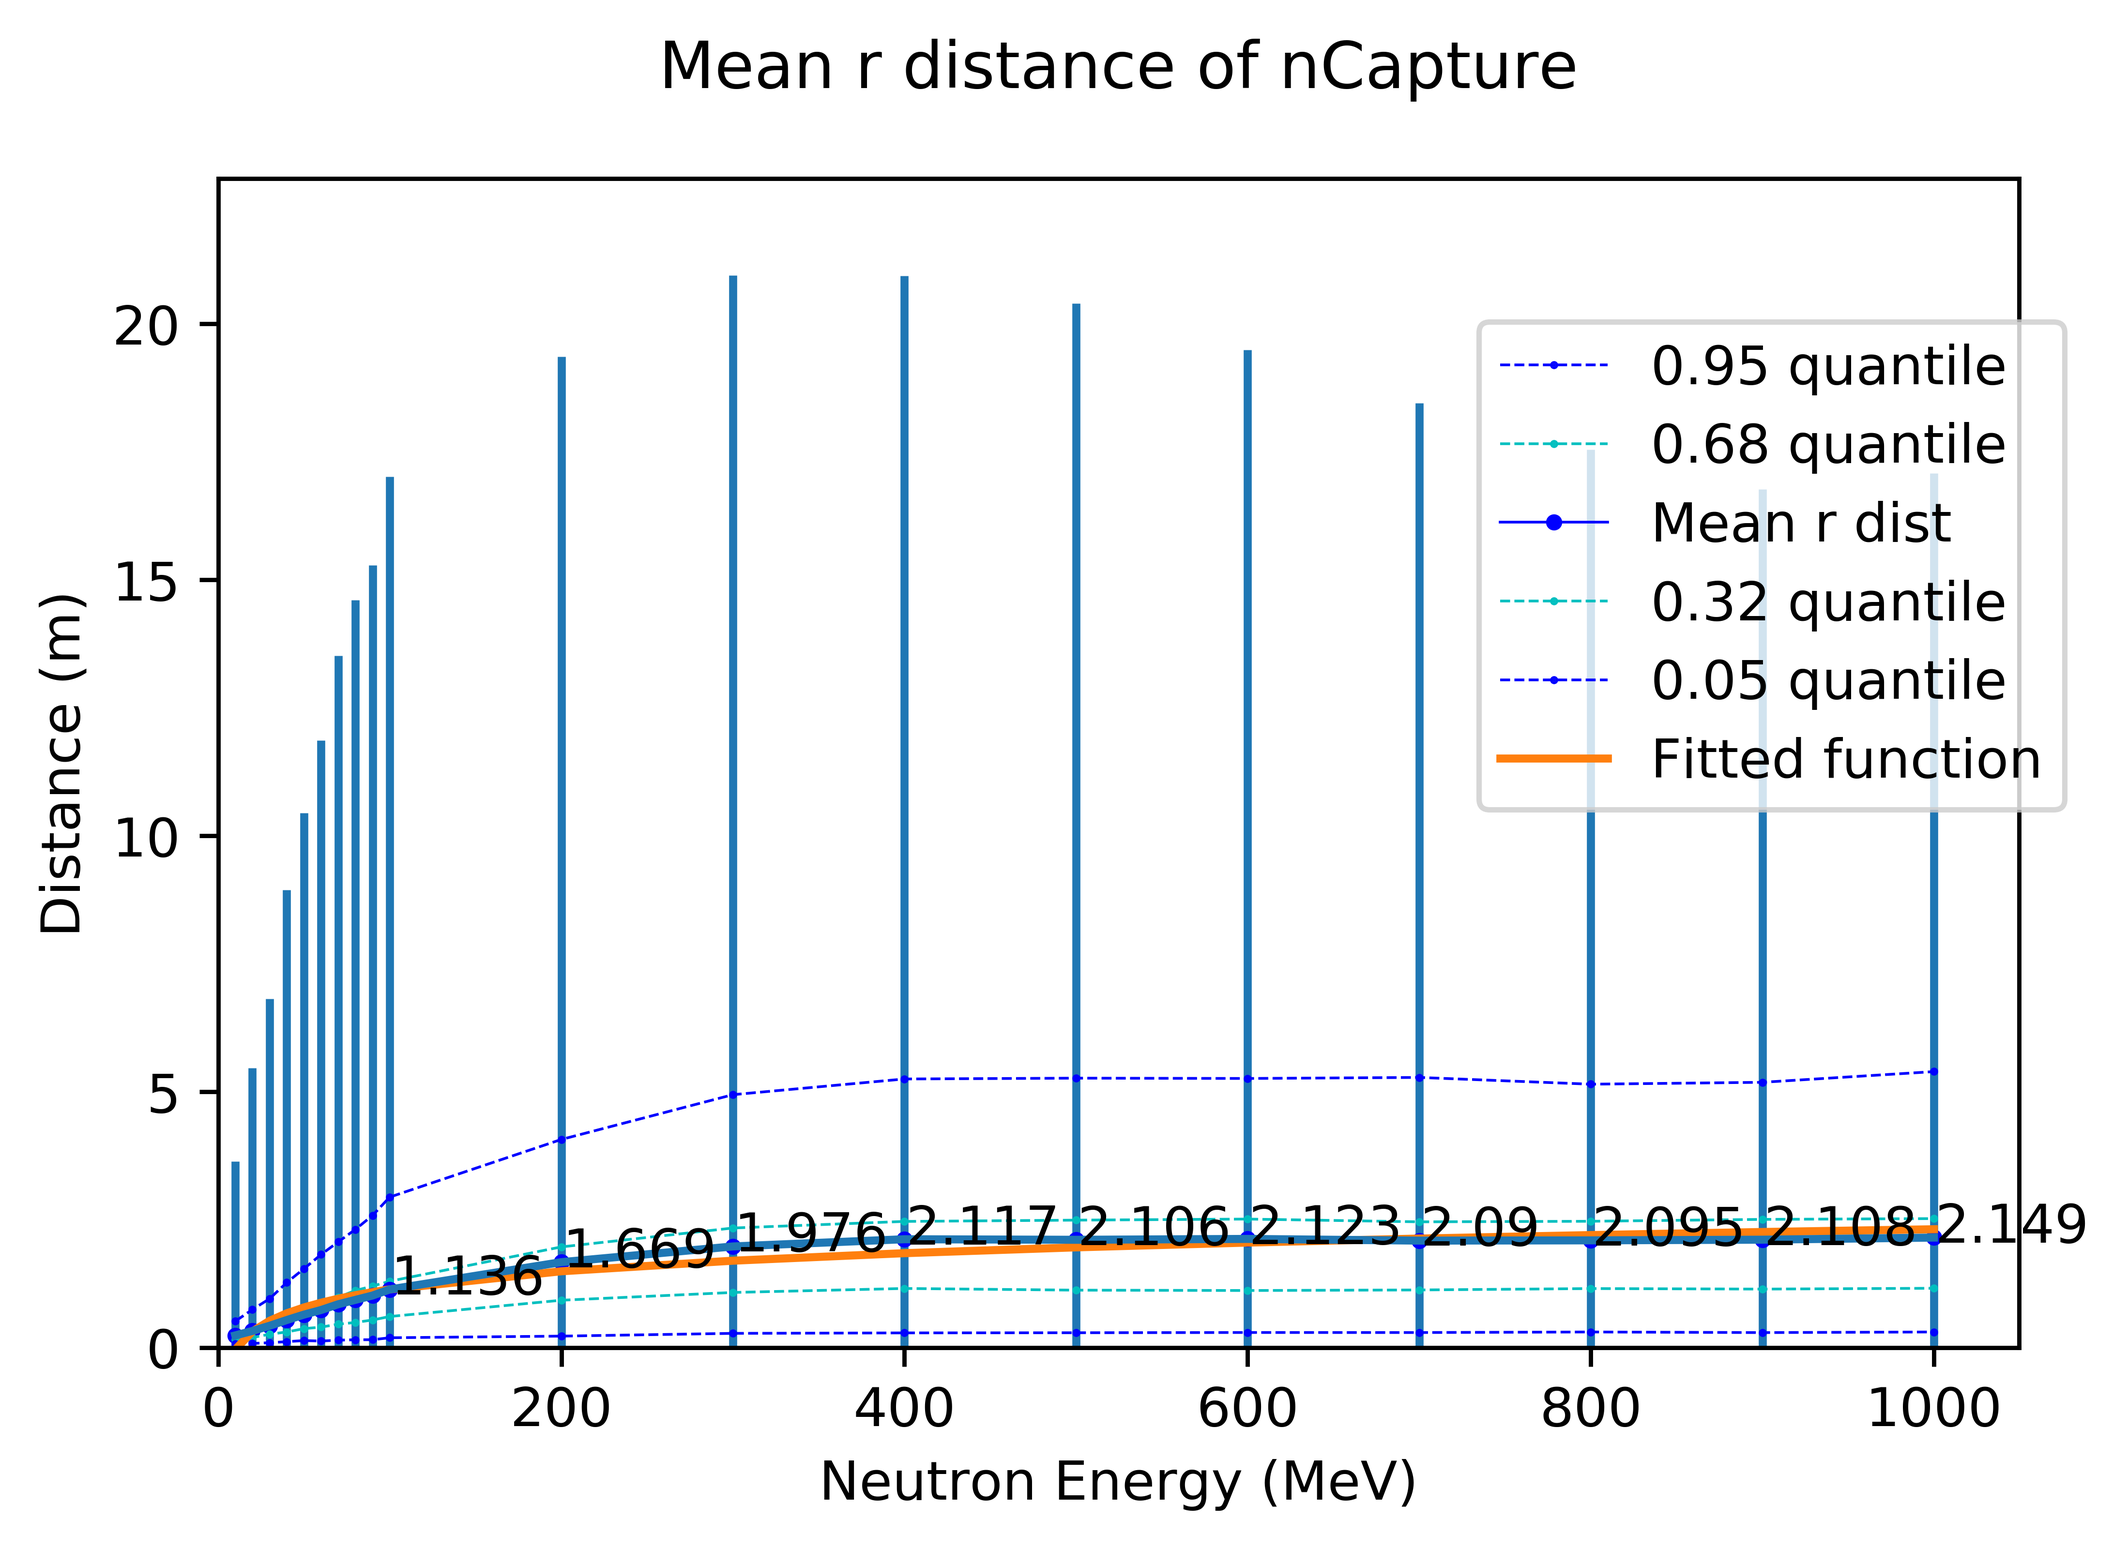
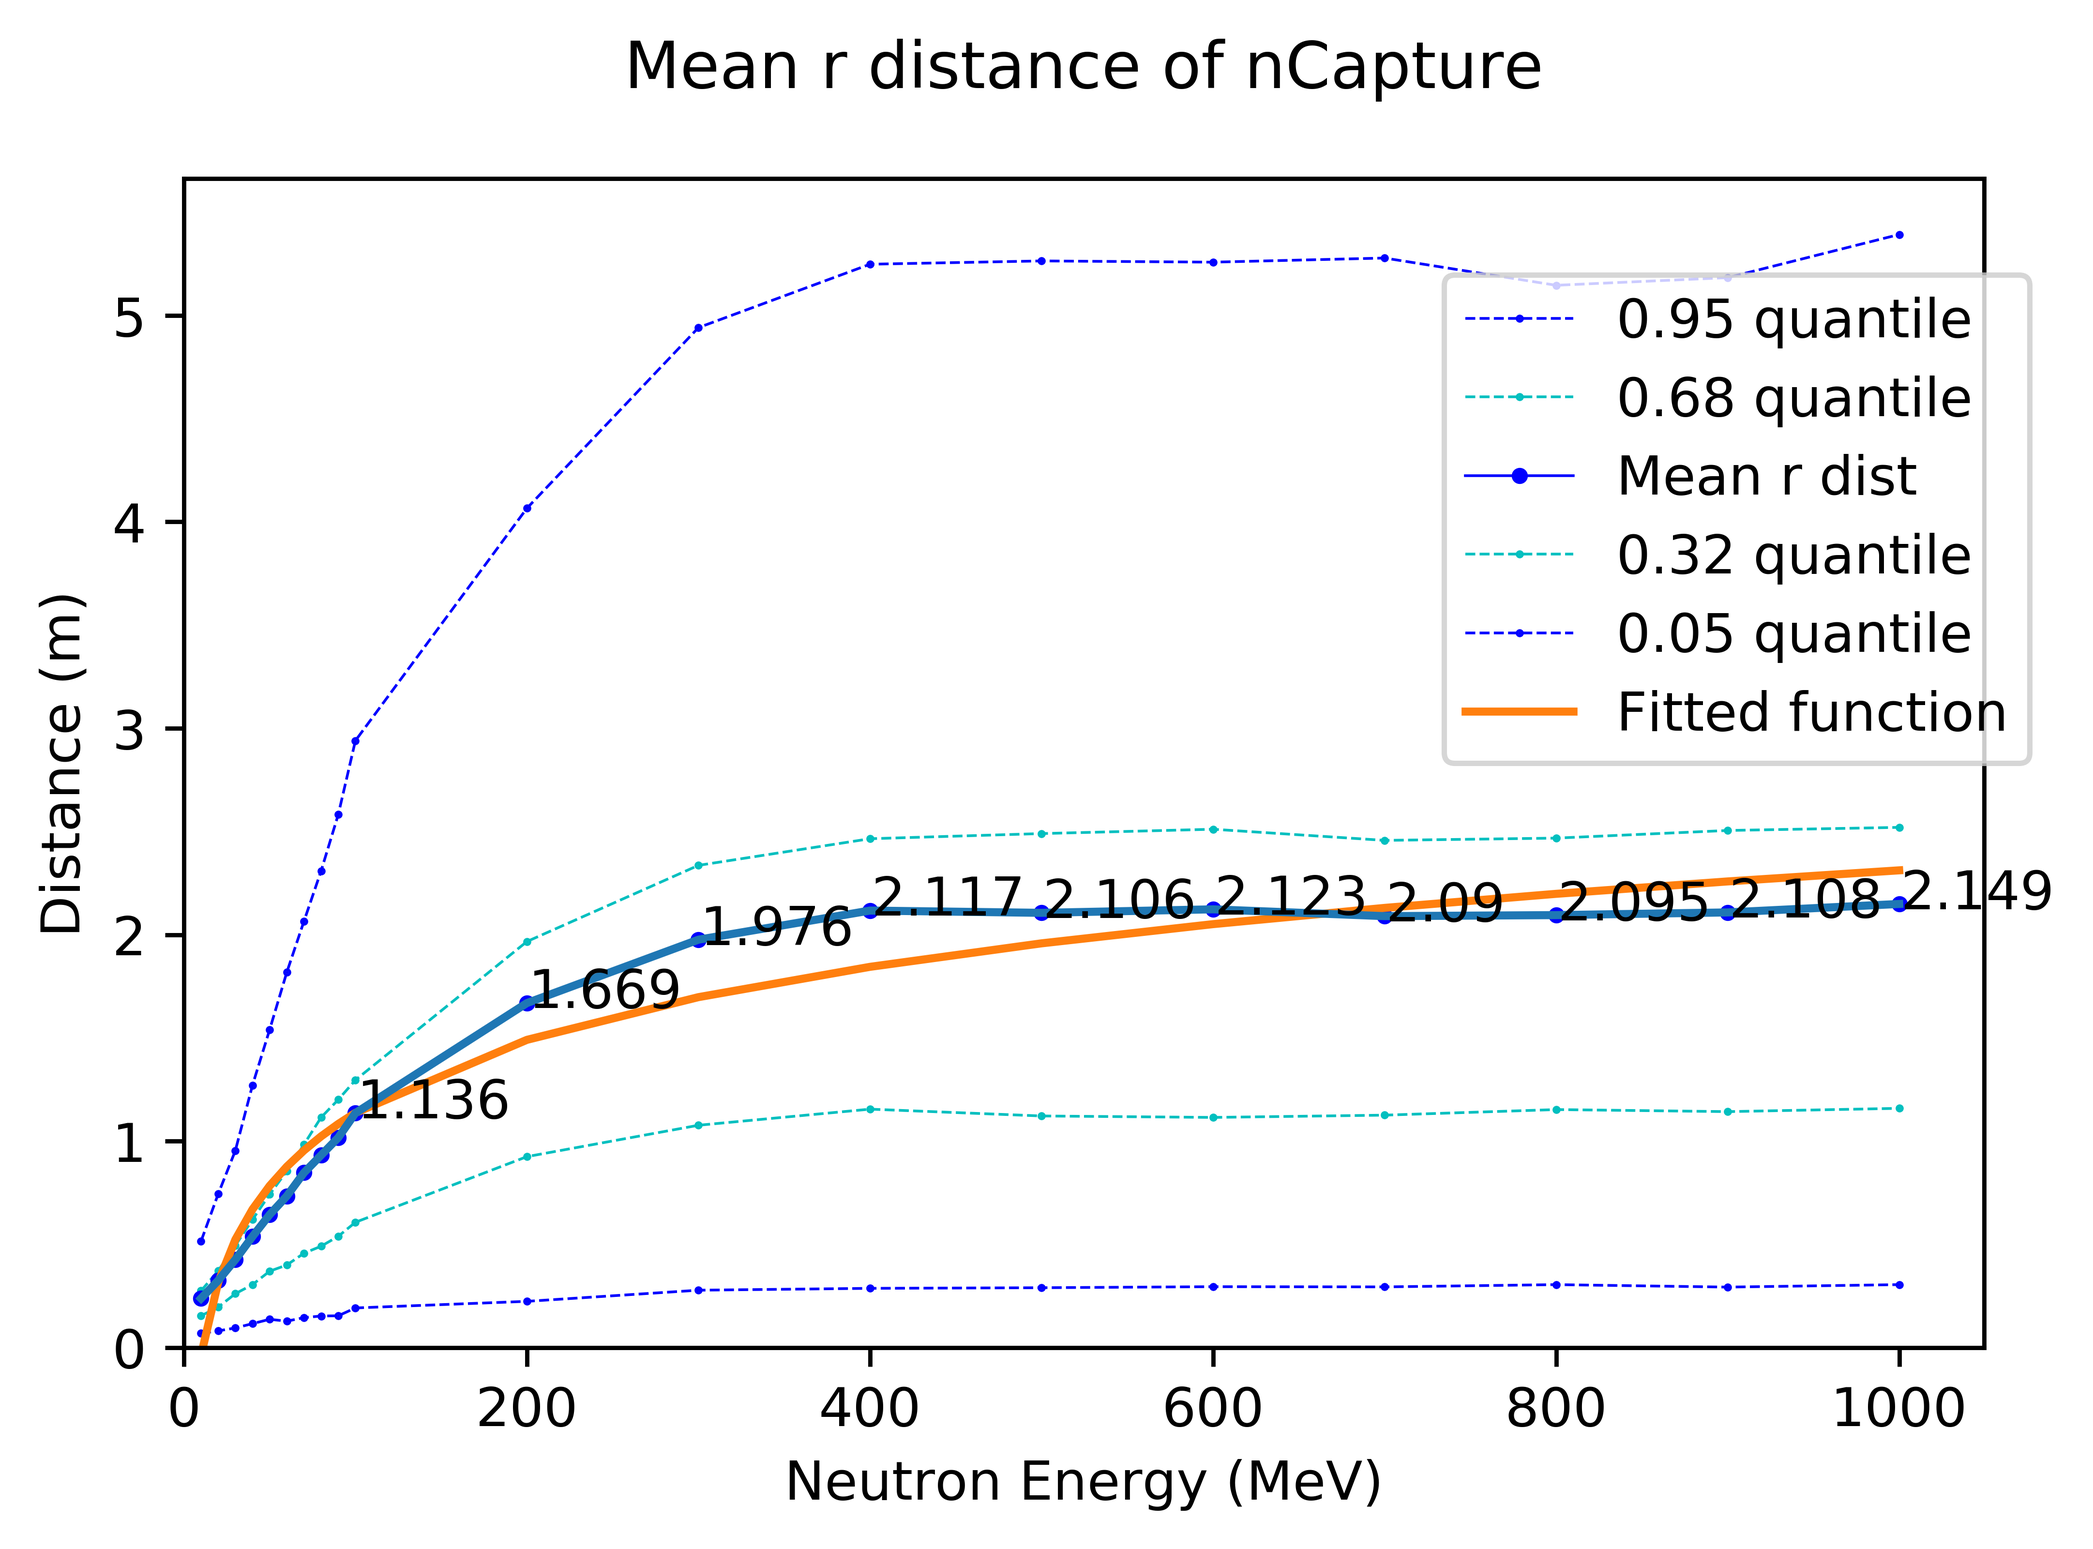
Some major recoding with loops and new subplots

diff --git a/Hadr04-FTF-timeposition-build/nCaptureMeanrDist.py b/Hadr04-FTF-timeposition-build/nCaptureMeanrDist.py
@@ -1,7 +1,7 @@
 #!/usr/bin/env python3
 # -*- coding: utf-8 -*-
 """
-Created on Fri May 29 11:08:25 2020
+Created on Fri May 29 09:13:25 2020
 
 @author: carlopalazzi
 """
@@ -12,92 +12,65 @@ from matplotlib import pyplot as plt
 #from matplotlib import rc
 #rc('text', usetex=False)
 from scipy import optimize
-from scipy import stats
 
 df10 = pd.read_csv('timepositions10.csv', names=['t', 'x', 'y', 'z'])
-df10['r']=np.sqrt(df10['x']**2+df10['y']**2+df10['z']**2)
 df20 = pd.read_csv('timepositions20.csv', names=['t', 'x', 'y', 'z'])
-df20['r']=np.sqrt(df20['x']**2+df20['y']**2+df20['z']**2)
 df30 = pd.read_csv('timepositions30.csv', names=['t', 'x', 'y', 'z'])
-df30['r']=np.sqrt(df30['x']**2+df30['y']**2+df30['z']**2)
 df40 = pd.read_csv('timepositions40.csv', names=['t', 'x', 'y', 'z'])
-df40['r']=np.sqrt(df40['x']**2+df40['y']**2+df40['z']**2)
 df50 = pd.read_csv('timepositions50.csv', names=['t', 'x', 'y', 'z'])
-df50['r']=np.sqrt(df50['x']**2+df50['y']**2+df50['z']**2)
 df60 = pd.read_csv('timepositions60.csv', names=['t', 'x', 'y', 'z'])
-df60['r']=np.sqrt(df60['x']**2+df60['y']**2+df60['z']**2)
 df70 = pd.read_csv('timepositions70.csv', names=['t', 'x', 'y', 'z'])
-df70['r']=np.sqrt(df70['x']**2+df70['y']**2+df70['z']**2)
 df80 = pd.read_csv('timepositions80.csv', names=['t', 'x', 'y', 'z'])
-df80['r']=np.sqrt(df80['x']**2+df80['y']**2+df80['z']**2)
 df90 = pd.read_csv('timepositions90.csv', names=['t', 'x', 'y', 'z'])
-df90['r']=np.sqrt(df90['x']**2+df90['y']**2+df90['z']**2)
 df100 = pd.read_csv('timepositions100.csv', names=['t', 'x', 'y', 'z'])
-df100['r']=np.sqrt(df100['x']**2+df100['y']**2+df100['z']**2)
 df200 = pd.read_csv('timepositions200.csv', names=['t', 'x', 'y', 'z'])
-df200['r']=np.sqrt(df200['x']**2+df200['y']**2+df200['z']**2)
 df300 = pd.read_csv('timepositions300.csv', names=['t', 'x', 'y', 'z'])
-df300['r']=np.sqrt(df300['x']**2+df300['y']**2+df300['z']**2)
 df400 = pd.read_csv('timepositions400.csv', names=['t', 'x', 'y', 'z'])
-df400['r']=np.sqrt(df400['x']**2+df400['y']**2+df400['z']**2)
 df500 = pd.read_csv('timepositions500.csv', names=['t', 'x', 'y', 'z'])
-df500['r']=np.sqrt(df500['x']**2+df500['y']**2+df500['z']**2)
 df600 = pd.read_csv('timepositions600.csv', names=['t', 'x', 'y', 'z'])
-df600['r']=np.sqrt(df600['x']**2+df600['y']**2+df600['z']**2)
 df700 = pd.read_csv('timepositions700.csv', names=['t', 'x', 'y', 'z'])
-df700['r']=np.sqrt(df700['x']**2+df700['y']**2+df700['z']**2)
 df800 = pd.read_csv('timepositions800.csv', names=['t', 'x', 'y', 'z'])
-df800['r']=np.sqrt(df800['x']**2+df800['y']**2+df800['z']**2)
 df900 = pd.read_csv('timepositions900.csv', names=['t', 'x', 'y', 'z'])
-df900['r']=np.sqrt(df900['x']**2+df900['y']**2+df900['z']**2)
 df1000 = pd.read_csv('timepositions1000.csv', names=['t', 'x', 'y', 'z'])
-df1000['r']=np.sqrt(df1000['x']**2+df1000['y']**2+df1000['z']**2)
 
-dflist = [df10,df20,df30,df40,df50,df60,df70,df80,df90\
-          ,df100, df200, df300, df400, df500, df600, df700, df800, df900, df1000]
+dflist = [df10, df20, df30, df40, df50, df60, df70, df80, df90\
+          , df100, df200, df300, df400, df500, df600, df700, df800, df900, df1000]
+
+# Convert units to metres and microseconds
+for df in dflist: 
+    df[df.columns] = df[df.columns]/1000
+
+# Create rdist columns
+for i in dflist:
+    i['rdist'] = np.sqrt(i['x']**2+i['y']**2+i['z']**2)
 
 meanrdist = []
 for i in dflist:
-    meanrdist.append(round((((np.sqrt(i['r'])**2)).mean())/1000, 3))
-      
-yerror = []
-for i in dflist:
-    yerror.append((np.sqrt(i['r'])**2).sem())
-print(yerror)
-
-ystd = []
-for i in dflist:
-    ystd.append((np.sqrt(i['r'])**2).std()/np.sqrt(len(i)))
-
+    meanrdist.append(round(i['rdist'].mean(), 3))
 
 quantile05 = []
 for i in dflist:
-    quantile05.append(round(i['r'].quantile(0.05)/1000, 3))  
+    quantile05.append(round(i['rdist'].quantile(0.05), 3))  
     
 quantile32 = []
 for i in dflist:
-    quantile32.append(round(i['r'].quantile(0.32)/1000, 3))  
+    quantile32.append(round(i['rdist'].quantile(0.32), 3))  
     
 quantile95 = []
 for i in dflist:
-    quantile95.append(round(i['r'].quantile(0.95)/1000, 3)) 
+    quantile95.append(round(i['rdist'].quantile(0.95), 3)) 
 
 quantile68 = []
 for i in dflist:
-    quantile68.append(round(i['r'].quantile(0.68)/1000, 3))
+    quantile68.append(round(i['rdist'].quantile(0.68), 3))
     
-energies = [10,20,30,40,50,60,70,80,90,100, 200, 300, 400, 500, 600, 700, 800, 900, 1000]
+energies = [10,20,30,40,50,60,70,80,90\
+            ,100, 200, 300, 400, 500, 600, 700, 800, 900, 1000]
 
-countspmin = pd.DataFrame(np.array([[1,0],[2,2],[3,5],[4,7]]))
-print(countspmin.sem())
-
-#print(np.sqrt(1830**2-1600**2))
-
-## Convert lists to arrays
-#meanrdist = np.array(meanrdist)
-#quantile05 = np.array(quantile05)
-#quantile95 = np.array(quantile95)
-#energies = np.array(energies)
+yerror = []
+for i in dflist:
+    yerror.append(i['rdist'].sem())
+print(yerror)
 
 def test_func(z, a, b):
     return a+b*np.log(z)
@@ -111,14 +84,14 @@ params, params_covariance = optimize.curve_fit(test_func,  energies,  meanrdist)
 print('a =', params[0])
 print('b =', params[1])
 
-
+# Mean rdist by energy plot
 plt.plot(energies, quantile95, 'bo--', linewidth=0.5, markersize=0.5,\
          label='0.95 quantile')
 plt.plot(energies, quantile68, 'co--', linewidth=0.5, markersize=0.5,\
          label='0.68 quantile')
 
 plt.plot(energies, meanrdist, 'bo-', linewidth=0.5, markersize=2, label='Mean r dist')
-plt.errorbar(energies, meanrdist, yerr=ystd)
+plt.errorbar(energies, meanrdist, yerr=yerror)
 
 plt.plot(energies, quantile32, 'co--', linewidth=0.5, markersize=0.5,\
          label='0.32 quantile')
@@ -132,14 +105,34 @@ plt.plot(energies, test_func(energies, params[0], params[1]),
 for i, txt in enumerate(meanrdist):
     if i>=9:
         plt.annotate(txt, (energies[i], meanrdist[i]), xytext=(3,-10), textcoords='offset pixels')
-    
+
 plt.title('Mean r distance of nCapture', y=1.05)
 plt.xlabel('Neutron Energy (MeV)')
 plt.ylabel('Distance (m)')
 plt.xlim(left=0)
 plt.ylim(bottom=0)
-plt.legend(loc=(0.7,0.46))
+plt.legend(loc=(0.7,0.5))
 plt.savefig('nCapturemeanrdist.png', dpi=800, bbox_inches='tight')
 plt.show()
-    
-    
+
+# rdist vs t scatterplots
+fig, ax = plt.subplots(4, 5, sharex='col', sharey='row')
+# axes are in a two-dimensional array, indexed by [row, col]
+numplot = 0
+for i in range(4):
+    for j in range(5):
+        if numplot<len(dflist):
+            if numplot<10:
+                ax[i, j].text(5, 1600, str((numplot+1)*10)+' MeV'+'\n'+str(len(dflist[numplot]['rdist']))+' entries', fontsize=4, ha='center')
+            elif numplot>=10:
+                ax[i, j].text(5, 1600, str((numplot-8)*100)+' MeV'+'\n'+str(len(dflist[numplot]['rdist']))+' entries', fontsize=4, ha='center')
+            ax[i, j].scatter(dflist[numplot]['rdist'], dflist[numplot]['t'], s=0.1, edgecolors='none')
+            ax[i, j].set_xlim(left=0, right=14)
+            ax[i, j].set_ylim(bottom=0, top=2100)
+            numplot+=1
+
+fig.suptitle('r Distance and Time of nCapture')
+fig.text(0.5, 0.01, 'r Distance (m)', ha='center', va='center')
+fig.text(0.01, 0.5, 'Time (microsec)', ha='center', va='center', rotation='vertical')
+
+plt.savefig('nCapturerdist.png', dpi=800, bbox_inches='tight')

diff --git a/Hadr04-FTF-timeposition-build/nCaptureMeanzDist.py b/Hadr04-FTF-timeposition-build/nCaptureMeanzDist.py
@@ -14,75 +14,63 @@ from matplotlib import pyplot as plt
 from scipy import optimize
 
 df10 = pd.read_csv('timepositions10.csv', names=['t', 'x', 'y', 'z'])
-df10['v']=np.sqrt(df10['x']**2+df10['z']**2+df10['z']**2)/df10['t']
 df20 = pd.read_csv('timepositions20.csv', names=['t', 'x', 'y', 'z'])
-df20['v']=np.sqrt(df20['x']**2+df20['z']**2+df20['z']**2)/df20['t']
 df30 = pd.read_csv('timepositions30.csv', names=['t', 'x', 'y', 'z'])
-df30['v']=np.sqrt(df30['x']**2+df30['z']**2+df30['z']**2)/df30['t']
 df40 = pd.read_csv('timepositions40.csv', names=['t', 'x', 'y', 'z'])
-df40['v']=np.sqrt(df40['x']**2+df40['z']**2+df40['z']**2)/df40['t']
 df50 = pd.read_csv('timepositions50.csv', names=['t', 'x', 'y', 'z'])
-df50['v']=np.sqrt(df50['x']**2+df50['z']**2+df50['z']**2)/df50['t']
 df60 = pd.read_csv('timepositions60.csv', names=['t', 'x', 'y', 'z'])
-df60['v']=np.sqrt(df60['x']**2+df60['z']**2+df60['z']**2)/df60['t']
 df70 = pd.read_csv('timepositions70.csv', names=['t', 'x', 'y', 'z'])
-df70['v']=np.sqrt(df70['x']**2+df70['z']**2+df70['z']**2)/df70['t']
 df80 = pd.read_csv('timepositions80.csv', names=['t', 'x', 'y', 'z'])
-df80['v']=np.sqrt(df80['x']**2+df80['z']**2+df80['z']**2)/df80['t']
 df90 = pd.read_csv('timepositions90.csv', names=['t', 'x', 'y', 'z'])
-df90['v']=np.sqrt(df90['x']**2+df90['z']**2+df90['z']**2)/df90['t']
 df100 = pd.read_csv('timepositions100.csv', names=['t', 'x', 'y', 'z'])
-df100['v']=np.sqrt(df100['x']**2+df100['z']**2+df100['z']**2)/df100['t']
 df200 = pd.read_csv('timepositions200.csv', names=['t', 'x', 'y', 'z'])
-df200['v']=np.sqrt(df200['x']**2+df200['z']**2+df200['z']**2)/df200['t']
 df300 = pd.read_csv('timepositions300.csv', names=['t', 'x', 'y', 'z'])
-df300['v']=np.sqrt(df300['x']**2+df300['z']**2+df300['z']**2)/df300['t']
 df400 = pd.read_csv('timepositions400.csv', names=['t', 'x', 'y', 'z'])
-df400['v']=np.sqrt(df400['x']**2+df400['z']**2+df400['z']**2)/df400['t']
 df500 = pd.read_csv('timepositions500.csv', names=['t', 'x', 'y', 'z'])
-df500['v']=np.sqrt(df500['x']**2+df500['z']**2+df500['z']**2)/df500['t']
 df600 = pd.read_csv('timepositions600.csv', names=['t', 'x', 'y', 'z'])
-df600['v']=np.sqrt(df600['x']**2+df600['z']**2+df600['z']**2)/df600['t']
 df700 = pd.read_csv('timepositions700.csv', names=['t', 'x', 'y', 'z'])
-df700['v']=np.sqrt(df700['x']**2+df700['z']**2+df700['z']**2)/df700['t']
 df800 = pd.read_csv('timepositions800.csv', names=['t', 'x', 'y', 'z'])
-df800['v']=np.sqrt(df800['x']**2+df800['z']**2+df800['z']**2)/df800['t']
 df900 = pd.read_csv('timepositions900.csv', names=['t', 'x', 'y', 'z'])
-df900['v']=np.sqrt(df900['x']**2+df900['z']**2+df900['z']**2)/df900['t']
 df1000 = pd.read_csv('timepositions1000.csv', names=['t', 'x', 'y', 'z'])
-df1000['v']=np.sqrt(df1000['x']**2+df1000['z']**2+df1000['z']**2)/df1000['t']
 
 dflist = [df10, df20, df30, df40, df50, df60, df70, df80, df90\
           , df100, df200, df300, df400, df500, df600, df700, df800, df900, df1000]
 
+# Convert units to metres and microseconds
+for df in dflist: 
+    df[df.columns] = df[df.columns]/1000
+
+# Create zdist columns
+for i in dflist:
+    i['zdist'] = np.sqrt(i['z']**2)
+
 meanzdist = []
 for i in dflist:
-    meanzdist.append(round((((np.sqrt(i['z']**2))).mean())/1000, 3))
+    meanzdist.append(round(i['zdist'].mean(), 3))
 
 quantile05 = []
 for i in dflist:
-    quantile05.append(round(((np.sqrt(i['z']**2))).quantile(0.05)/1000, 3))  
+    quantile05.append(round(i['zdist'].quantile(0.05), 3))  
     
 quantile32 = []
 for i in dflist:
-    quantile32.append(round(((np.sqrt(i['z']**2))).quantile(0.32)/1000, 3))  
+    quantile32.append(round(i['zdist'].quantile(0.32), 3))  
     
 quantile95 = []
 for i in dflist:
-    quantile95.append(round(((np.sqrt(i['z']**2))).quantile(0.95)/1000, 3)) 
+    quantile95.append(round(i['zdist'].quantile(0.95), 3)) 
 
 quantile68 = []
 for i in dflist:
-    quantile68.append(round(((np.sqrt(i['z']**2))).quantile(0.68)/1000, 3))
+    quantile68.append(round(i['zdist'].quantile(0.68), 3))
     
 energies = [10,20,30,40,50,60,70,80,90\
             ,100, 200, 300, 400, 500, 600, 700, 800, 900, 1000]
 
-## Convert lists to arrays
-#meanzdist = np.array(meanzdist)
-#quantile05 = np.array(quantile05)
-#quantile95 = np.array(quantile95)
-#energies = np.array(energies)
+yerror = []
+for i in dflist:
+    yerror.append(i['zdist'].sem())
+print(yerror)
 
 def test_func(z, a, b):
     return a+b*np.log(z)
@@ -96,12 +84,15 @@ params, params_covariance = optimize.curve_fit(test_func,  energies,  meanzdist)
 print('a =', params[0])
 print('b =', params[1])
 
-
+# Mean zdist by energy plot
 plt.plot(energies, quantile95, 'bo--', linewidth=0.5, markersize=0.5,\
          label='0.95 quantile')
 plt.plot(energies, quantile68, 'co--', linewidth=0.5, markersize=0.5,\
          label='0.68 quantile')
+
 plt.plot(energies, meanzdist, 'bo-', linewidth=0.5, markersize=2, label='Mean z dist')
+plt.errorbar(energies, meanzdist, yerr=yerror)
+
 plt.plot(energies, quantile32, 'co--', linewidth=0.5, markersize=0.5,\
          label='0.32 quantile')
 plt.plot(energies, quantile05, 'bo--', linewidth=0.5, markersize=0.5,\
@@ -112,8 +103,9 @@ plt.plot(energies, test_func(energies, params[0], params[1]),
 
 # Label plot points with their values
 for i, txt in enumerate(meanzdist):
-    plt.annotate(txt, (energies[i], meanzdist[i]), xytext=(3,-10), textcoords='offset pixels')
-    
+    if i>=9:
+        plt.annotate(txt, (energies[i], meanzdist[i]), xytext=(3,-10), textcoords='offset pixels')
+
 plt.title('Mean z distance of nCapture', y=1.05)
 plt.xlabel('Neutron Energy (MeV)')
 plt.ylabel('Distance (m)')
@@ -122,5 +114,25 @@ plt.ylim(bottom=0)
 plt.legend(loc=(0.7,0.5))
 plt.savefig('nCapturemeanzdist.png', dpi=800, bbox_inches='tight')
 plt.show()
-    
-    
+
+# zdist vs t scatterplots
+fig, ax = plt.subplots(4, 5, sharex='col', sharey='row')
+# axes are in a two-dimensional array, indexed by [row, col]
+numplot = 0
+for i in range(4):
+    for j in range(5):
+        if numplot<len(dflist):
+            if numplot<10:
+                ax[i, j].text(5, 1600, str((numplot+1)*10)+' MeV'+'\n'+str(len(dflist[numplot]['zdist']))+' entries', fontsize=4, ha='center')
+            elif numplot>=10:
+                ax[i, j].text(5, 1600, str((numplot-8)*100)+' MeV'+'\n'+str(len(dflist[numplot]['zdist']))+' entries', fontsize=4, ha='center')
+            ax[i, j].scatter(dflist[numplot]['zdist'], dflist[numplot]['t'], s=0.1, edgecolors='none')
+            ax[i, j].set_xlim(left=0, right=14)
+            ax[i, j].set_ylim(bottom=0, top=2100)
+            numplot+=1
+
+fig.suptitle('z Distance and Time of nCapture')
+fig.text(0.5, 0.01, 'z Distance (m)', ha='center', va='center')
+fig.text(0.01, 0.5, 'Time (microsec)', ha='center', va='center', rotation='vertical')
+
+plt.savefig('nCapturezdist.png', dpi=800, bbox_inches='tight')

diff --git a/Hadr04-FTF-timeposition-build/nCaptureMeanv.py b/Hadr04-FTF-timeposition-build/nCaptureMeanv.py
@@ -114,7 +114,8 @@ plt.plot(energies, test_func(energies, params[0], params[1]),
 
 # Label plot points with their values
 for i, txt in enumerate(meanv):
-    plt.annotate(txt, (energies[i], meanv[i]), xytext=(3,-10), textcoords='offset pixels')
+    if i>=9:
+        plt.annotate(txt, (energies[i], meanv[i]), xytext=(3,-10), textcoords='offset pixels')
     
 plt.title('Mean neutron radial speed', y=1.05)
 plt.xlabel('Neutron Energy (MeV)')
